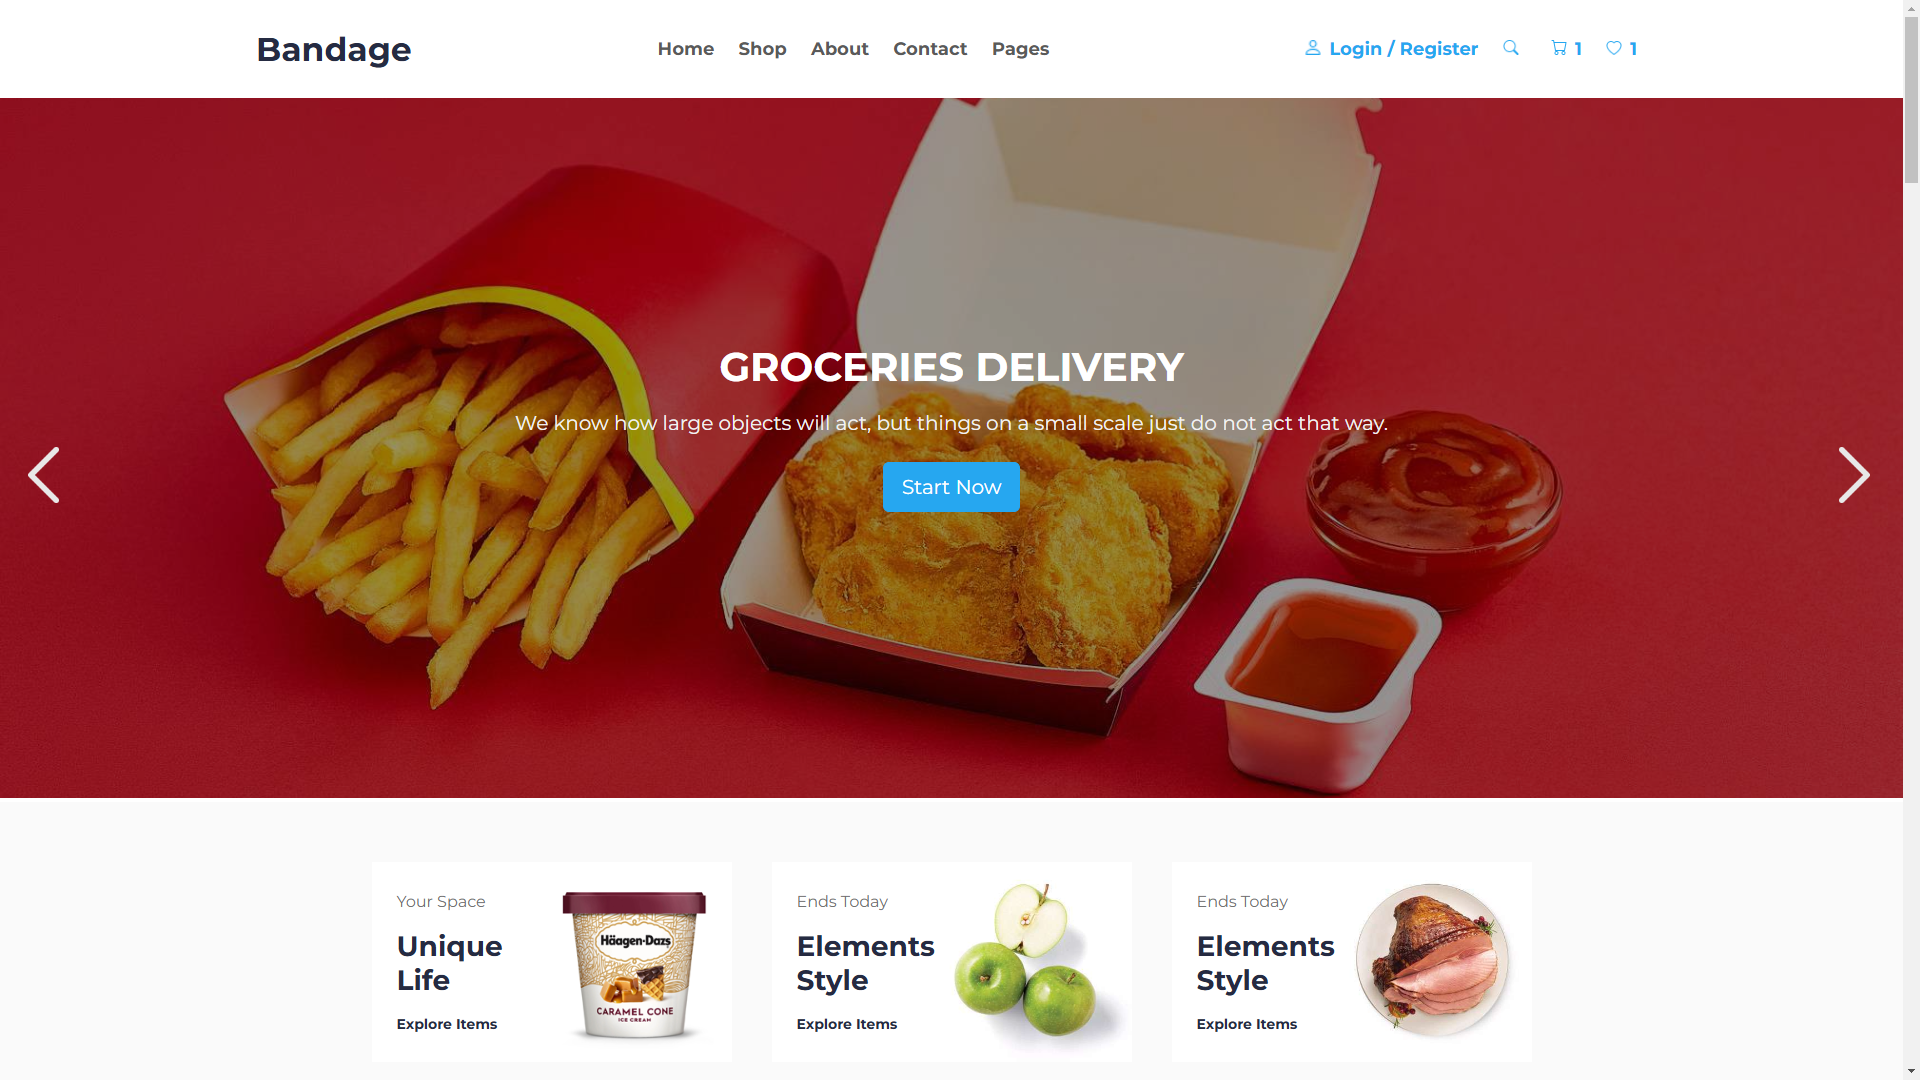
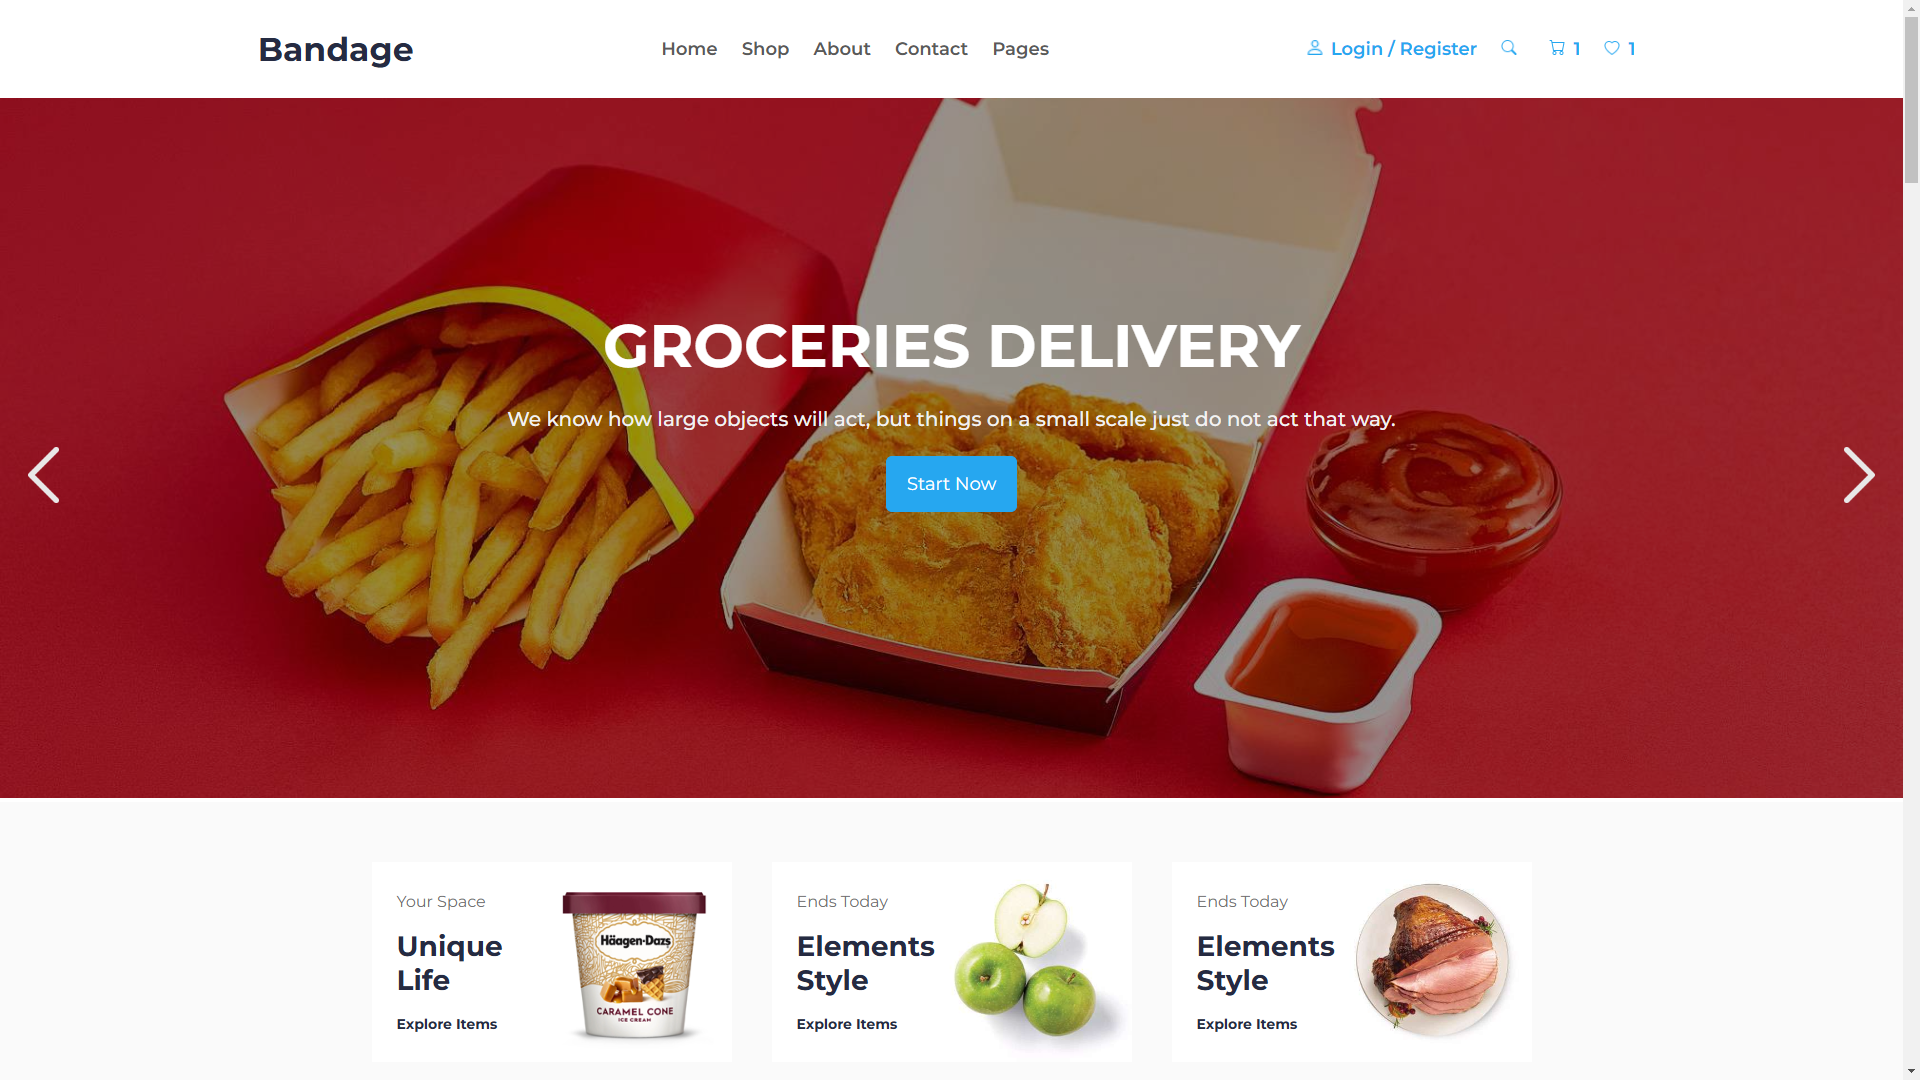
correcao readme

diff --git a/css/styles.css b/css/styles.css
@@ -22,8 +22,8 @@ body {
     flex-direction: row;
     width: 1200px;
     margin: auto;
-    flex-wrap: wrap; /* Permite quebrar de linha */
-    justify-content: center; /* Alinha as caixas organizadoras no centro (horizontalmente)*/
+    flex-wrap: wrap;
+    justify-content: center;
 }
 
 nav{
@@ -47,7 +47,7 @@ li {
     text-decoration: none;
     padding: 18px 10px;
     display: inline-block;
-    font-weight: bold;
+    font-weight: 600;
 }
 
 .menu-login img {
@@ -79,7 +79,7 @@ li {
 
 .menu-login a {
     color: #26A7F0;
-    font-weight: bold;
+    font-weight: 600;
 }
 
 .menu-login a:hover {
@@ -116,43 +116,43 @@ li {
         }
 
         .seta-direita {
-        left: 95%;
+            right: 0;
         }
 
         .text {
-        color: #f2f2f2;
-        font-size: 40px;
-        padding: 8px 12px;
-        position: absolute;
-        bottom: 40%;
-        width: 100%;
-        text-align: center;
+            color: #f2f2f2;
+            padding: 8px 12px;
+            position: absolute;
+            bottom: 40%;
+            width: 100%;
+            text-align: center;
 
         h1 {
-            font-size: 40px;
+            font-size: 60px;
             font-weight: bolder;
             color: white;
         }
         p {
-            padding: 20px;
+            padding: 25px;
             font-size: 20px;
+            font-weight: 500;
         }
 
         button {
             background-color: #26A7F0;
-            padding: 12px 18px;
+            padding: 16px 20px;
             border: 1px solid #26A7F0;
             border-radius: 6px;
-            font-size: 20px;
+            font-size: 18px;
             color: white;
             transition: 0.4s;
         }
 
         button:hover {
             background-color: #f0f9ff;
-            padding: 12px 18px #26A7F0;
+            padding: 16px 20px #26A7F0;
             color: #14567c;
-            font-size: 21px;
+            font-size: 20px;
             transition: 0.4s;
             cursor: pointer;
         }
@@ -489,7 +489,7 @@ li {
     .logos {
         display: flex;
         justify-content: space-between;
-        padding: 60px 0;
+        padding: 100px 0 20px 0;
     }
 
     .logos img:hover {
@@ -662,9 +662,8 @@ footer {
 }
 
 .footer-section ul li a:hover {
-    text-decoration: underline;
     color: var(--ligthgrayText);
-    transition: 0.3s;
+    transition: 0.2s;
 }
 
 .footer-section img {
@@ -699,12 +698,6 @@ footer {
     nav {
         flex-direction: column;
         align-items: flex-start;
-    }
-
-    .menu-toggle {
-        display: block;
-        cursor: pointer;
-        font-size: 30px;
     }
 
     .menu-mobile {
@@ -744,9 +737,16 @@ footer {
     .menu-toggle {
         display: flex;
         width: 110px;
+        font-size: 30px;
         text-align: center;
         align-items: center;
         justify-content: space-between;
+        cursor: pointer;
+    }
+
+    .menu-toggle > :hover {
+        transition: 0.3s;
+        filter: brightness(5);
     }
 
     .menu-toggle img {
@@ -760,6 +760,7 @@ footer {
 
     .carrosel img {
         height: 600px;
+
     }
 
     .intro-produtos .container {

diff --git a/index.html b/index.html
@@ -14,7 +14,7 @@
                 <div class="menu-toggle">
                     <a href=""><img src="images/icon-mob1.png" alt=""></a>
                     <a href=""><img src="images/icon-mob2.png" alt=""></a>
-                    ☰
+                    <a>☰</a>
                 </div>
             </div>
             <div class="menu-links-mob">
